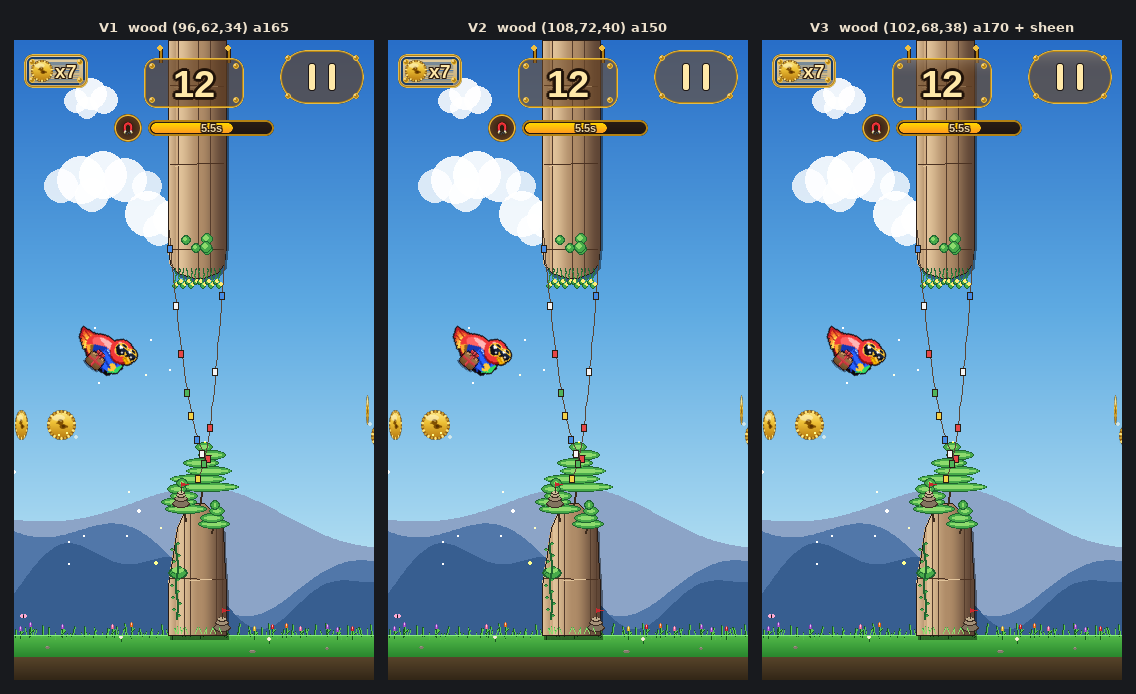
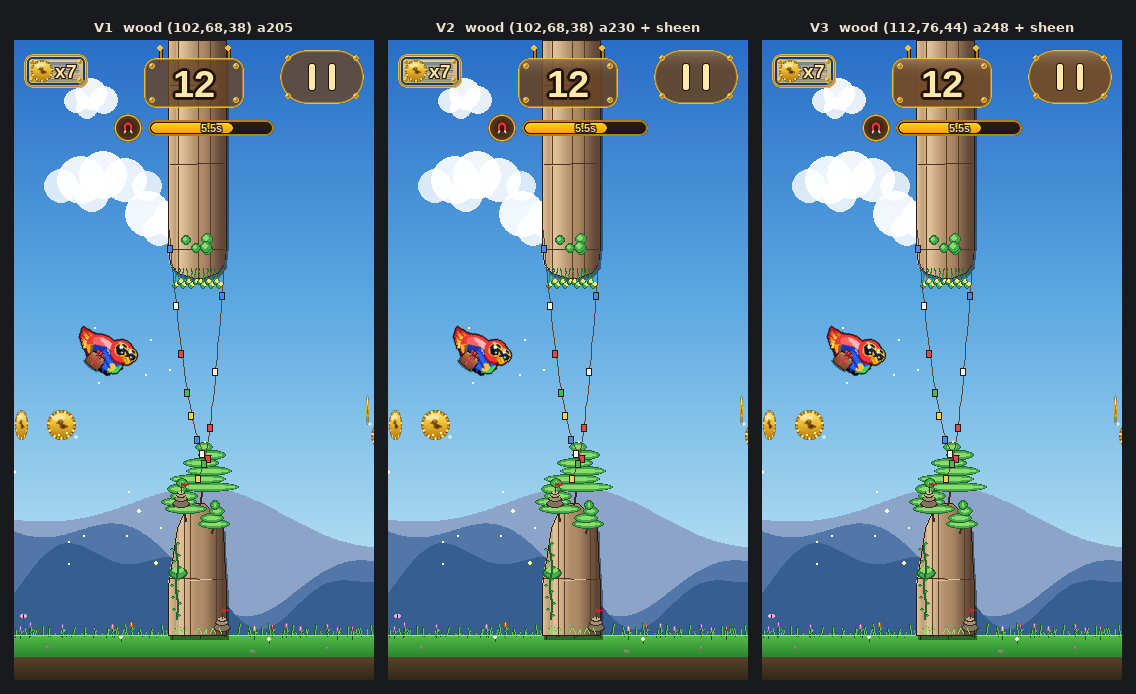
Gameplay HUD mockup r5b: less-transparent, lighter score + pause
Raise the score+pause panel opacity (alpha 205/230/248) and lighten the
wood so the variants read as clearly less transparent and visibly distinct.
Score+pause only; coin plaque + timer unchanged.

https://claude.ai/code/session_017Z3zLhntZrsy2aMti6pFtg

diff --git a/tools/gen_gameplay_hud_round5.py b/tools/gen_gameplay_hud_round5.py
@@ -343,9 +343,9 @@ def cand_plaques(surf, wood, alpha, sheen=False):
 
 # ── variant definitions (the only thing that differs between the screens) ────
 VARIANTS = [
-    ("V1  wood (96,62,34) a165", (96, 62, 34), 165, False),
-    ("V2  wood (108,72,40) a150", (108, 72, 40), 150, False),
-    ("V3  wood (102,68,38) a170 + sheen", (102, 68, 38), 170, True),
+    ("V1  wood (102,68,38) a205", (102, 68, 38), 205, False),
+    ("V2  wood (102,68,38) a230 + sheen", (102, 68, 38), 230, True),
+    ("V3  wood (112,76,44) a248 + sheen", (112, 76, 44), 248, True),
 ]
 
 
